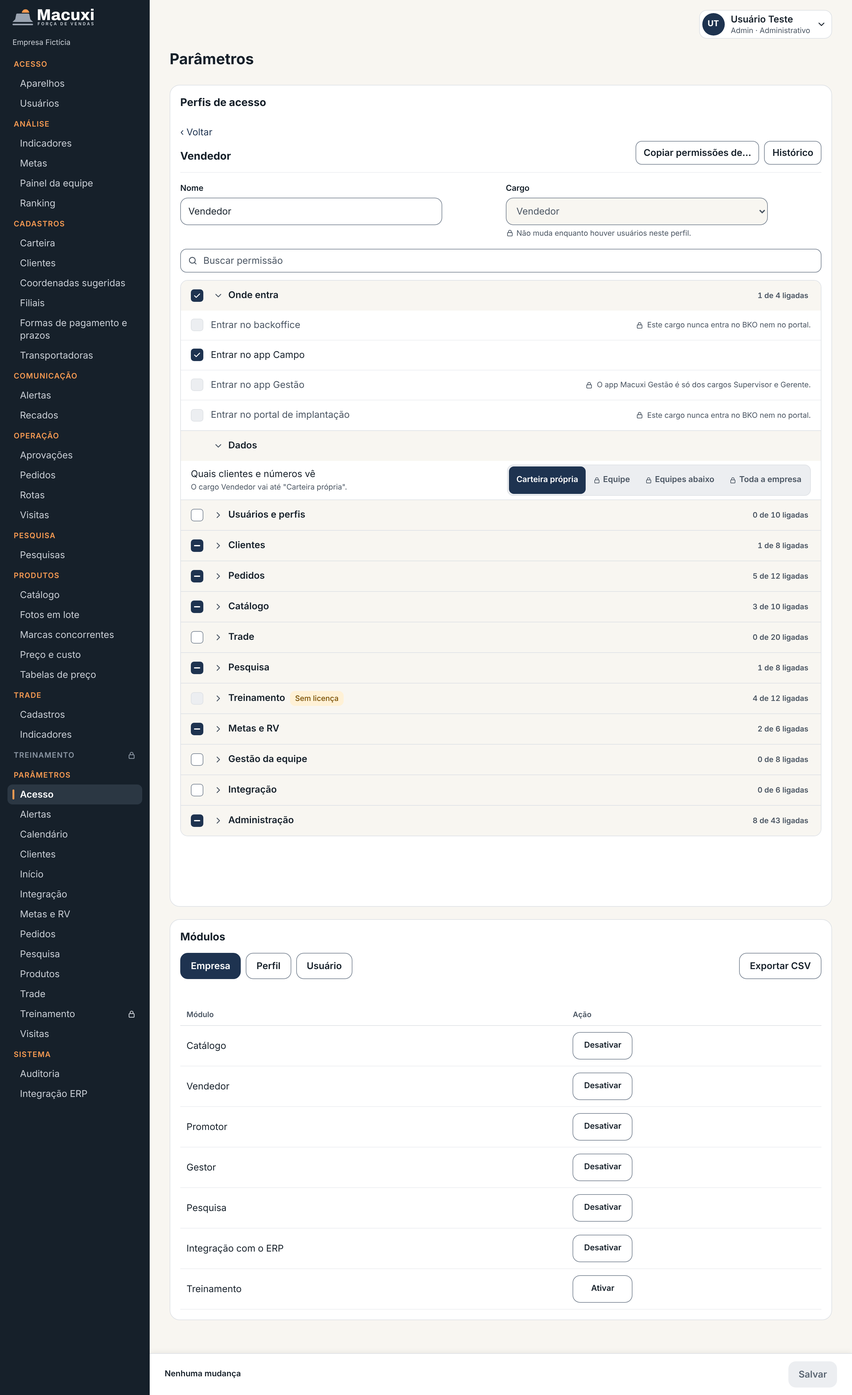
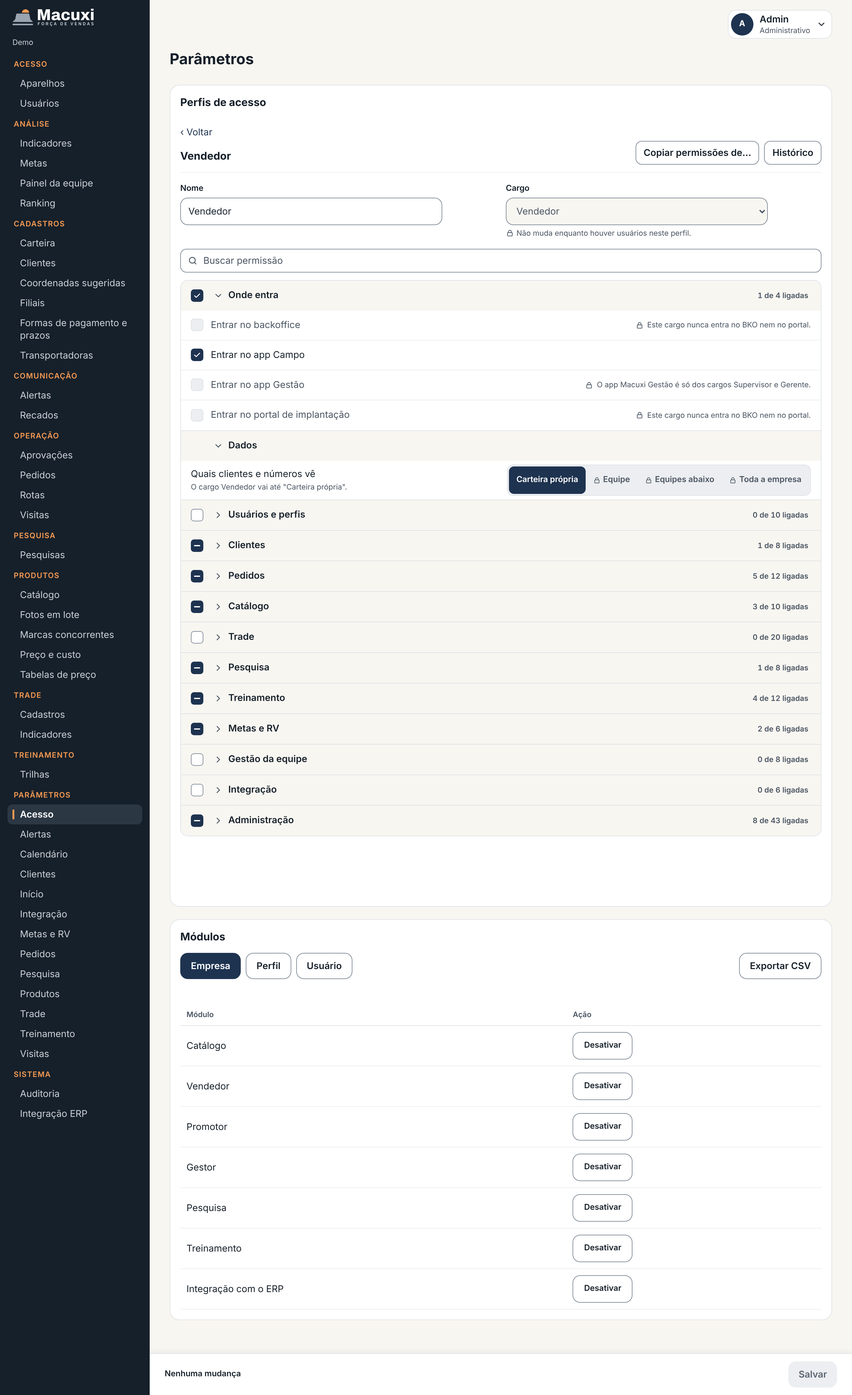
v1.0.40 · testes: parecer da E5+E6 do core (#853 75a3813b, -2 c8bf2083)
Agente: testes

Claude-Session: https://claude.ai/code/session_01QvB2SQEC54iLCaCNvzvGaW

diff --git a/tests/e2e/bko/prints-perfis-v1040-api.ts b/tests/e2e/bko/prints-perfis-v1040-api.ts
@@ -1,0 +1,112 @@
+/**
+ * v1.0.40 · ADR 0073 (E5/E6): prints da edição de perfis em tabela (Vendedor e Admin) a 1366 px, deviceScaleFactor 2, com a API
+ * REAL (apps/api sobre o Postgres local, base de demo com o tenant em `concessao`). Entra pelo login do BKO como o admin da demo,
+ * captura as respostas V2 (`/core/permissoes/catalogo` e `/core/perfis/:codigo`) e confere valor × regra do "n de m ligadas" de
+ * cada grupo contra elas (n = chaves concedidas da área, m = chaves da área no catálogo; o grupo só de escopo não tem contagem).
+ *
+ * Pré-requisitos: a API (`MACUXI_PG_BANCO=<base de demo> pnpm --filter api dev`, porta 8100) e o BKO (`pnpm --filter web dev`)
+ * no ar. `MACUXI_BKO_URL` (padrão http://localhost:3000), `MACUXI_DEMO_SENHA` (padrão a da demo, docs/banco/README.md).
+ * Rodar: `pnpm exec tsx tests/e2e/bko/prints-perfis-v1040-api.ts <pasta-de-saida>` (`MACUXI_PW_CHROMIUM` aponta o Chromium já instalado).
+ */
+import { mkdirSync } from 'node:fs';
+import { join } from 'node:path';
+import { chromium, type Page } from 'playwright';
+
+const BKO = process.env.MACUXI_BKO_URL ?? 'http://localhost:3000';
+const SAIDA = process.argv[2] ?? 'prints-perfis-v1040';
+const SENHA = process.env.MACUXI_DEMO_SENHA ?? 'demo-macuxi';
+
+interface Area { area: string; chaves: Array<{ chave: string; nivel?: string | null }> }
+interface Detalhe { permissoes: Array<{ chave: string; concedida: boolean }> }
+
+/**
+ * A base de demo tem o código de empresa "demo", que o formulário do login recusa (UF + 4 números). O login é o da API real
+ * (`POST /auth/login`, pelo proxy do BKO, com a sessão web), e a sessão entra no navegador como o shell a guarda.
+ */
+async function entrar(page: Page) {
+  const r = await page.request.post('/api-proxy/auth/login', { data: { codigo_empresa: 'demo', email: 'admin@exemplo.com.br', senha: SENHA } });
+  if (!r.ok()) throw new Error(`login da API real: HTTP ${r.status()}`);
+  const { access_token: token } = (await r.json()) as { access_token: string };
+  const me = (await (await page.request.get('/api-proxy/me', { headers: { authorization: `Bearer ${token}` } })).json().catch(() => ({}))) as Record<string, unknown>;
+  const usuario = { id: me.id ?? 'admin', name: me.nome ?? 'Admin', email: 'admin@exemplo.com.br', perfil: 'admin', empresa: me.empresa ?? 'Demo', fuso: 'America/Manaus' };
+  await page.addInitScript(
+    ([u, t]) => {
+      const j = JSON.stringify(u);
+      localStorage.setItem('macuxi.web.user', j);
+      sessionStorage.setItem('macuxi.web.token', t as string);
+      sessionStorage.setItem('macuxi.web.token.usuario', j);
+    },
+    [usuario, token] as const,
+  );
+}
+
+/** Abre o perfil e devolve o catálogo e o detalhe que a tela recebeu da API real. */
+async function abrir(page: Page, codigo: string): Promise<{ catalogo: { areas: Area[] }; detalhe: Detalhe }> {
+  let catalogo: { areas: Area[] } | null = null;
+  let detalhe: Detalhe | null = null;
+  const ouvir = async (r: import('playwright').Response) => {
+    const p = new URL(r.url()).pathname.replace(/^\/api-proxy(\/v1)?/, '');
+    if (r.status() !== 200) return;
+    if (p === '/core/permissoes/catalogo') catalogo = (await r.json()) as { areas: Area[] };
+    if (p === `/core/perfis/${codigo}`) detalhe = (await r.json()) as Detalhe;
+  };
+  page.on('response', (r) => void ouvir(r).catch(() => undefined));
+  await page.goto(`/parametros/acesso?editar_perfil=${codigo}`);
+  await page.getByTestId('tabela-permissoes').waitFor({ timeout: 120_000 });
+  await page.waitForTimeout(1000);
+  if (!catalogo || !detalhe) throw new Error(`${codigo}: a tela não recebeu catálogo e detalhe da API real`);
+  return { catalogo, detalhe };
+}
+
+async function conferirContagens(page: Page, codigo: string, catalogo: { areas: Area[] }, detalhe: Detalhe): Promise<string[]> {
+  const concedida = new Map(detalhe.permissoes.map((p) => [p.chave, p.concedida]));
+  const erros: string[] = [];
+  const vistos: string[] = [];
+  for (const a of catalogo.areas) {
+    if (a.chaves.every((c) => c.nivel === 'escopo')) continue;
+    const esperado = `${a.chaves.filter((c) => concedida.get(c.chave)).length} de ${a.chaves.length} ligadas`;
+    const visto = (await page.getByTestId(`tabela-permissoes.${a.area}.contagem`).textContent())?.trim();
+    vistos.push(`${a.area} ${visto}`);
+    if (visto !== esperado) erros.push(`${codigo}/${a.area}: tela "${visto}" × regra "${esperado}"`);
+  }
+  console.log(`${codigo}: ${vistos.join(' | ')}`);
+  return erros;
+}
+
+async function main() {
+  mkdirSync(SAIDA, { recursive: true });
+  const nav = await chromium.launch(process.env.MACUXI_PW_CHROMIUM ? { executablePath: process.env.MACUXI_PW_CHROMIUM } : {});
+  const ctx = await nav.newContext({ viewport: { width: 1366, height: 768 }, deviceScaleFactor: 2, baseURL: BKO, locale: 'pt-BR', timezoneId: 'America/Manaus' });
+  const erros: string[] = [];
+  const page = await ctx.newPage();
+  await entrar(page);
+  for (const codigo of ['vendedor', 'admin'] as const) {
+    await page.setViewportSize({ width: 1366, height: 768 });
+    const { catalogo, detalhe } = await abrir(page, codigo);
+    await page.addStyleTag({ content: 'nextjs-portal{display:none!important}' }); // o selo do modo dev do Next não é da tela
+    erros.push(...(await conferirContagens(page, codigo, catalogo, detalhe)));
+    const altura = await page.evaluate(() => document.documentElement.scrollHeight);
+    await page.setViewportSize({ width: 1366, height: altura + 80 });
+    await page.waitForTimeout(500);
+    await page.screenshot({ path: join(SAIDA, `perfis-${codigo}-1366.png`) });
+    const textos = await page.locator('body').innerText();
+    for (const proibido of ['Perfil base', 'Restaurar', 'Promotor vê pedidos', 'RN-']) if (textos.includes(proibido)) erros.push(`${codigo}: texto "${proibido}" na página`);
+    const principais = await page.locator('button').evaluateAll((bs) => bs.filter((b) => /bg-accent/.test(b.className) && !b.getAttribute('role')).map((b) => (b.textContent ?? '').trim()));
+    console.log(`${codigo}: botões principais = ${JSON.stringify(principais)}; avisos de autogestão = ${(textos.match(/Você usa este perfil/g) ?? []).length}`);
+  }
+  // RN-PRO-01 pelo cargo, com a API real: escritas de pedido travadas com o motivo; "Ver pedidos" (pedido.ver) livre
+  {
+    await page.setViewportSize({ width: 1366, height: 768 });
+    await abrir(page, 'promotor');
+    await page.getByTestId('tabela-permissoes.pedidos.seta').click();
+    const linhas = await page.locator('[data-testid^="tabela-permissoes.pedidos."][role="listitem"]').evaluateAll((ls) =>
+      ls.map((l) => `${l.getAttribute('data-testid')?.replace('tabela-permissoes.pedidos.', '')} trava=${l.getAttribute('data-travada') ?? 'nao'} motivo=${l.querySelector('[data-testid$=".motivo"]')?.textContent ?? ''}`),
+    );
+    console.log('promotor/pedidos:\n  ' + linhas.join('\n  '));
+  }
+  await nav.close();
+  console.log(erros.length ? `DIVERGÊNCIAS:\n${erros.join('\n')}` : 'Sem divergências.');
+  if (erros.length) process.exitCode = 1;
+}
+
+void main();

diff --git a/tests/integracao/demo/demo-matriz.test.ts b/tests/integracao/demo/demo-matriz.test.ts
@@ -16,7 +16,7 @@ import { readdirSync, readFileSync, statSync } from 'node:fs';
 import { join } from 'node:path';
 import { semBanco } from '@macuxi/db/teste/estado';
 import { dadosDemo } from '@macuxi/db/teste';
-import { LicencasEstadoSchema, PerfilListaRespostaSchema, UsuarioListaRespostaSchema, type CustomerSummary } from '@macuxi/core/contracts';
+import { LicencasEstadoSchema, PerfilListaRespostaV2Schema, UsuarioListaRespostaSchema, type CustomerSummary } from '@macuxi/core/contracts';
 import { mensagemPerfilForaDoApp, type ItemPush, type LinhaSync, type ResultadoItemPush } from '@macuxi/platform-sdk';
 import { afterAll, beforeAll, describe, expect, it } from 'vitest';
 import { fazerCheckin, fazerCheckout, type ContextoAcao } from '../../../modules/core/app/lib/acoes-visita';
@@ -513,7 +513,7 @@ describe.skipIf(semBanco())('T-0028 — matriz da demo (base demo × createApp r
       expect(rp.status, JSON.stringify(rp.corpo)).toBe(200);
       const ru = await api.get(token.admin, '/v1/core/usuarios');
       expect(ru.status, JSON.stringify(ru.corpo)).toBe(200);
-      const perfis = PerfilListaRespostaSchema.parse(rp.corpo).itens;
+      const perfis = PerfilListaRespostaV2Schema.parse(rp.corpo).itens; // ADR 0073 (E6): GET /v1/core/perfis responde no formato V2
       // a lista sem filtro traz ativos e inativos; a API de perfis conta por usuario_perfil, inclusive inativos
       const usuarios = UsuarioListaRespostaSchema.parse(ru.corpo).itens;
       expect(perfis.length).toBeGreaterThan(0);

diff --git a/tests/modulos/pedidos-busca-t0077.test.ts b/tests/modulos/pedidos-busca-t0077.test.ts
@@ -985,8 +985,8 @@ describe('T-0077 critério 4 — promotor lê os pedidos da carteira no Cliente 
     expect(tela).toMatch(/const cartao = ficha && ficha\.pedidos_visiveis && fin/);
     expect(tela).toMatch(/const itensComprados: ItemCompradoLinha\[\] = ficha && ficha\.pedidos_visiveis/);
     expect(tela).toContain('const itensAbas = abasDoApp(locais.perfil, locais.verPedidos);');
-    // a API revalida (P12): o Histórico online pede promotor_ve_pedidos
-    expect(ler('modules/core/api/cliente360-v2.ts')).toContain("abasDaFicha(ctx.usuario.perfil, ctx.usuario.perfil !== 'promotor' || (await lerPromotorVePedidos(db))).includes('historico')");
+    // a API revalida (P12; ADR 0073 §2.4): o Histórico online pede usuarioVePedidos (pedido.ver em concessao, promotor_ve_pedidos em legado)
+    expect(ler('modules/core/api/cliente360-v2.ts')).toContain("abasDaFicha(ctx.usuario.perfil, await usuarioVePedidos(ctx, db)).includes('historico')");
   });
 
   it('LIGADA (padrão de fábrica, sem registro): o promotor lê no Cliente 360 os pedidos/mês, os valores e a última compra — offline', async () => {

diff --git a/docs/testes/v1040-perfis-e5.md b/docs/testes/v1040-perfis-e5.md
@@ -1,69 +1,87 @@
-# v1.0.40 · Perfis em tabela (ADR 0073, E5) — parecer final do testes
+# v1.0.40 · Perfis em tabela (ADR 0073): parecer do testes da E5 e da E6 do core
 
-Data: 27/11/2026, 09h35 (Manaus). Base: simulação aprovada `docs/design/simulacoes/2026-11-24/perfis-tabela.md` e ADR 0073.
+Data: 27/11/2026, 10h15 (Manaus). Sessão S18 (R-20261127-093805-alexandre). Base: a simulação aprovada `docs/design/simulacoes/2026-11-24/perfis-tabela.md` e a ADR 0073.
 
 | PR | Dono | Branch | Head conferido |
 |---|---|---|---|
 | #853 (kit) | designer-ux | `nuvem/v1040-designer-ux-perfis` | `75a3813bc7f25ac87795ac95819140486013ab9c` |
-| #854 (tela, rotas V2 e 0109) | modulo-core | `nuvem/v1040-modulo-core-perfis` | `183638eb8990351d6795a44291002402b7147b77` |
+| PR novo (tela e rotas V2) | modulo-core | `nuvem/v1040-modulo-core-perfis-2` | `c8bf20834a25ccd6548662a964192a34cd6272e5` |
 
-O 183638eb contém o 75a3813b, e o #854 não muda `packages/` além do que o #853 traz.
+O c8bf2083 contém o 75a3813b e o `main` (cc78a5fd). Em `modules/`, ele é igual ao 183638eb (liberado no parecer anterior) mais 2 commits:
+- 46053bb1 (RD-3734, RD-3741): `usuarioDaRequisicaoVePedidos` passa a usar `podePeloCargo` do SDK, e o Cliente 360 (`api/clientes.ts`) e o pull do histórico (`api/sync.ts`) chamam `usuarioVePedidos` direto. Um TODO aponta a troca por `promotorNaRequisicao`.
+- c8bf2083: tira o symlink `modules/core/node_modules`.
+
+`web/` não mudou desde o 183638eb.
+
+Banco: as migrações do `main` (até a 0108) mais a 0109 corrigida da S19 (`nuvem/v1040-banco-dados-perfis-correcao` @ 833d47af), aplicada só na sessão, sem commit.
 
 ## Parecer
 - **#853 @ 75a3813b: LIBERADO.** Nenhum achado.
-- **#854 @ 183638eb: LIBERADO.** Os achados A1 a A5 do parecer anterior (908fc0c1) estão resolvidos. Não há achado novo.
+- **modulo-core-perfis-2 @ c8bf2083: LIBERADO.** Não há achado no código de produção.
 
-## O que rodou (no head 183638eb)
+Dois testes de `tests/` acompanhavam a forma antiga e foram corrigidos neste lote, no caminho do testes:
+- `tests/modulos/pedidos-busca-t0077.test.ts:989`: a asserção de fonte esperava `ctx.usuario.perfil !== 'promotor' || (await lerPromotorVePedidos(db))` no `cliente360-v2.ts`. Agora ela espera `abasDaFicha(ctx.usuario.perfil, await usuarioVePedidos(ctx, db)).includes('historico')`, que é a regra da ADR 0073 §2.4: `pedido.ver` em `concessao` e `promotor_ve_pedidos` em `legado`. Só a asserção mudou.
+- `tests/integracao/demo/demo-matriz.test.ts:516`: a contagem de usuários por perfil lia `GET /v1/core/perfis` com o `PerfilListaRespostaSchema` antigo, que tem `base` e `fabrica`. Agora a rota responde V2, então o teste lê com o `PerfilListaRespostaV2Schema`. A conferência da contagem não mudou.
+
+## O que rodou (no head c8bf2083, Node 24.22 de `/opt/node24`, Postgres 16 local de `db/scripts/pg-local.sh`)
 | Pacote | Comando | Resultado |
 |---|---|---|
-| @macuxi/ui | `vitest run` | 59 arquivos, 661 testes, verdes |
-| @macuxi/ui | `pnpm typecheck` (web e mobile) | limpo |
 | @macuxi/core | `pnpm typecheck` (api, web e mobile) | limpo |
-| @macuxi/core web e domain | `vitest run web domain` (Node 22) | verdes |
-| @macuxi/core api, com Postgres local (`db/scripts/pg-local.sh --env`, Node 24.22 de `/opt/node24`) | `vitest run api` | 105 arquivos, 1123 testes: 1122 verdes. `perfis-v2.db.test.ts` com 36 testes verdes, `perfis-v2.test.ts`, `promotor-pedidos.db.test.ts` e `promotor-historico.db.test.ts` verdes |
-| BKO no navegador | `tests/e2e/bko/prints-perfis-v1040.ts` (Chromium de `/opt/pw-browsers`, Next em dev) | sem divergências |
+| @macuxi/core | `pnpm lint` | 0 erros (50 avisos `perfil-fixo` já conhecidos) |
+| @macuxi/core | `vitest run` (a suíte inteira, com o banco) | 318 arquivos, 3554 testes: 3553 verdes. `perfis-v2.db.test.ts` (36), `perfis-v2.test.ts`, `promotor-pedidos.db.test.ts`, `promotor-historico.db.test.ts`, `domain/promotor-pedidos.test.ts` e `web/lib/perfis-tabela.test.ts` estão verdes |
+| tests/ | `vitest run --config tests/vitest.config.ts` (com o banco) | 187 arquivos, 2860 testes: 2828 verdes, 22 pulados e 8 todo. Caíram 2, os dois corrigidos acima. Com a correção, os 2 arquivos têm 106 de 106 verdes |
+| tests/ | `tsc -p tests/tsconfig.json` e `eslint` nos arquivos tocados | limpos |
+| BKO no navegador, com a **API real** | `tests/e2e/bko/prints-perfis-v1040-api.ts` | sem divergências |
 
-- Com o Node 22 da sessão, 97 testes da API caem só por falta de `crypto.argon2` (autenticação, credencial, senha e usuários). Isso não é achado. Com o Node 24 eles passam.
-- Um teste caiu na suíte completa: `api/vinculo-erp.db.test.ts` (RN-CORE-58, linha 197). Rodando só esse arquivo, os 9 testes passam. O #854 não toca o vínculo com o ERP, então isso não é achado deste lote. Fica registrado como teste instável na suíte paralela.
+- Um teste caiu na suíte do core: `api/vinculo-erp.db.test.ts` (RN-CORE-58). Sozinho, o arquivo passa com 9 de 9. É o mesmo teste instável da suíte paralela já registrado no 183638eb, e o lote não toca o vínculo com o ERP. Não é achado.
 
-## Critério → teste → resultado
+## E5: os 11 critérios → teste → resultado
 | Critério | Teste | Resultado |
 |---|---|---|
-| Trava pelo cargo com o motivo, sem código de RN | `perfis-tabela.test.ts` (RN-CORE-33). No navegador aparecem os motivos e não há "RN-" na página | ✅ |
-| Cargo travado quando o perfil tem usuários | `perfis-tabela.test.ts`. Nos prints, o cadeado aparece com "Não muda enquanto houver usuários neste perfil.". Na API, o db.test cobre o 422 `CARGO_EM_USO` | ✅ |
-| Módulo sem licença desabilitado, guardando o valor | navegador: Treinamento com "Sem licença", a caixa sem efeito e "4 de 12 ligadas". db.test: 422 `PERMISSAO_SEM_LICENCA` e o valor guardado continua guardado (RN-CORE-02) | ✅ |
-| Aviso de autogestão uma vez só, no topo | print Admin: um aviso só, e as linhas travadas sem texto repetido. A API marca `autogestao` só no perfil de quem está logado (db.test) | ✅ |
-| Caixa do grupo com 3 estados, só nas linhas livres | navegador: Clientes vai de `mixed` 1 de 8 para `true` 8 de 8, com "7 mudanças não salvas". Em Onde entra, só a linha livre muda | ✅ |
-| Escopo acima do teto do cargo com cadeado e motivo | print Vendedor: cadeado em Equipe, Equipes abaixo e Toda a empresa, e o motivo escrito "O cargo Vendedor vai até "Carteira própria"." (A3 resolvido). API: 422 `ESCOPO_ACIMA_DO_CARGO` | ✅ |
-| RN-PRO-01: o promotor nunca cria nem altera pedido | navegador, perfil Promotor: `pedido.criar`, `editar`, `cancelar`, `excluir`, `aprovar` e `criar_em_nome` travados com "Perfil de promotor nunca cria, edita, cancela, exclui ou aprova pedido.", e `pedido.ver` livre. db.test: a API recusa com 422 `TRAVA_DO_PERFIL` (pelo corpo e pela cópia de outro cargo), e o banco recusa o insert direto (23514). Domain: `usuarioDaRequisicaoVePedidos` muda só a leitura | ✅ |
-| Só quem tem `perfil.gerir` edita | db.test: todas as rotas de gestão exigem `perfil.gerir`, e o vendedor não tem essa permissão. `perfis-tabela.test.ts`. A página mostra o aviso quando `usePode('perfil.gerir')` falha e no 403 | ✅ |
-| 422 com texto único | `MENSAGEM_PERFIS_NAO_MIGRADOS` existe só em `contracts/perfis.ts`. A API lança esse texto, e a tela o mostra pelo `frasesDaRecusa(details, message)`, sem texto próprio. db.test: POST, PUT e DELETE com o tenant em `legado` dão 422 `PERFIS_NAO_MIGRADOS` | ✅ |
-| Busca | navegador: "transportadora" mostra só as 2 linhas de Pedidos, e "zzz" mostra "Nenhuma permissão com esse nome." | ✅ |
-| Salvar como único botão principal | navegador: os botões principais são só ["Salvar"], no Vendedor e no Admin | ✅ |
-| Sem "Perfil base", "Restaurar padrão" e "Promotor vê pedidos" | busca de texto na página. O cartão saiu (A1 resolvido) | ✅ |
+| 1. Trava pelo cargo com o motivo, sem código de RN | `perfis-tabela.test.ts` (RN-CORE-33). No navegador com a API real, as travas mostram o motivo (por exemplo "Este cargo nunca entra no BKO nem no portal.") e não há "RN-" na página | ✅ |
+| 2. Cargo travado quando o perfil tem usuários | prints: o cadeado aparece com "Não muda enquanto houver usuários neste perfil.". db.test: 422 `CARGO_EM_USO` | ✅ |
+| 3. Módulo sem licença desabilitado, guardando o valor | db.test: 422 `PERMISSAO_SEM_LICENCA` em `legado` e em `concessao`, e o valor guardado continua guardado (RN-CORE-02). A base de demo tem tudo contratado, por isso o grupo sem licença ficou no print simulado do parecer anterior. A tela não mudou desde então | ✅ |
+| 4. Aviso de autogestão uma vez só, no topo | print Admin (API real): um aviso só, "Você usa este perfil…". O script conta 1 no Admin e 0 no Vendedor. db.test: `autogestao` só no perfil de quem está logado | ✅ |
+| 5. Caixa do grupo com 3 estados, só nas linhas livres | prints: grupos em `mixed`, `true` e vazio. `perfis-tabela.test.ts`. A tela não mudou desde o 183638eb, conferido no navegador | ✅ |
+| 6. Escopo acima do teto do cargo com cadeado e motivo | print Vendedor: cadeado em Equipe, Equipes abaixo e Toda a empresa, com "O cargo Vendedor vai até "Carteira própria".". db.test: 422 `ESCOPO_ACIMA_DO_CARGO` | ✅ |
+| 7. RN-PRO-01: o promotor nunca cria nem altera pedido | navegador com a API real, perfil Promotor: `pedido.criar`, `editar`, `cancelar`, `excluir`, `aprovar` e `criar_em_nome` travados com "Perfil de promotor nunca cria, edita, cancela, exclui ou aprova pedido.", e `pedido.ver` livre. db.test: 422 `TRAVA_DO_PERFIL` (pelo corpo e pela cópia) e 23514 no insert direto | ✅ |
+| 8. Só quem tem `perfil.gerir` edita | db.test: toda rota de gestão exige `perfil.gerir`, e o vendedor não tem essa permissão | ✅ |
+| 9. 422 com texto único | `MENSAGEM_PERFIS_NAO_MIGRADOS` existe só em `contracts/perfis.ts`, e a tela usa `frasesDaRecusa`. db.test: POST, PUT e DELETE em `legado` dão 422 `PERFIS_NAO_MIGRADOS` | ✅ |
+| 10. Busca | `perfis-tabela.test.ts`. No navegador (183638eb, com `web/` igual): "transportadora" mostra 2 linhas e "zzz" mostra "Nenhuma permissão com esse nome." | ✅ |
+| 11. Salvar como único botão principal, sem "Perfil base", "Restaurar padrão" e "Promotor vê pedidos" | API real: os botões principais são só ["Salvar"] no Vendedor e no Admin. Os textos proibidos não aparecem na página | ✅ |
 
-### Valor × regra: "n de m ligadas"
-Pela regra, n é o número de chaves concedidas da área (livres, travadas e sem licença) e m é o número de chaves da área no catálogo. O grupo Dados não tem contagem. O script calcula o esperado a partir da resposta e compara com a tela em todos os grupos do Vendedor e do Admin, e **não há divergência**. Exemplos: no Vendedor, Onde entra 1 de 4, Pedidos 5 de 12 e Treinamento 4 de 12; no Admin, Onde entra 2 de 4 e Administração 39 de 43. Rótulo × valor: "ligadas" conta as concessões gravadas. A tela não tem data, fuso nem dinheiro, então dia útil, virada de mês e fuso não se aplicam.
+## E6 do lado do core
+| Item | Teste | Resultado |
+|---|---|---|
+| Um tenant em `concessao` e um em `legado` | `perfis-v2.db.test.ts` 344 a 385: a fixture grava `legado`, liga e desliga por tenant, e o detalhe é igual nos dois. Base de demo com a 0109: o tenant `demo` ficou em `concessao` (`ligar_leitura_por_concessao`), e a tela leu dele | ✅ |
+| 422 `PERFIS_NAO_MIGRADOS` | db.test 375: em `legado`, a leitura funciona e a escrita é recusada | ✅ |
+| RN-PRO-01 pelo cargo | db.test 115 e 467: a API e o banco (23514), em `concessao` | ✅ |
+| O promotor vê pedidos com `pedido.ver` e a trava do cargo (RD-3741) | domain: `usuarioDaRequisicaoVePedidos` com `podePeloCargo`. `vetadaPeloCargo` barra só a escrita de pedido (`ehAcaoDeEscritaDePedido`), então `pedido.ver` passa. db.test 479: em `legado`, vale o parâmetro. Em `concessao`, tirar `pedido.ver` do perfil esconde o histórico, e devolver a chave mostra de novo. `promotor-historico.db.test.ts` (6) cobre o Cliente 360 e o pull. O t0077 corrigido confere o `cliente360-v2.ts` | ✅ |
+| Licença | db.test 66, 125 e 406 | ✅ |
+| Isolamento entre tenants | db.test 212, 263 e 501 (RN-CORE-05) | ✅ |
+| Último admin pela gestão | db.test 189 e 450: 422 `ULTIMO_ADMIN` com `AUTOGESTAO`, e em `concessao` o banco recusa a escrita direta no COMMIT | ✅ |
 
-## Achados anteriores
-| Id | Situação no 183638eb |
-|---|---|
-| A1 (alta) cartão "Promotor vê pedidos" | resolvido: o painel saiu de `web/index.ts`, e a leitura passou para a chave `pedido.ver` |
-| A2 (média) rótulo de `dados.escopo` | resolvido: agora é "Quais clientes e números vê" |
-| A3 (média) motivo do teto escondido | resolvido: o motivo aparece escrito sob o nome da linha (print Vendedor) |
-| A4 (baixa) títulos dos grupos | resolvido: os títulos estão iguais aos da simulação |
-| A5 (baixa) barra sobre o menu | resolvido: `md:left-[240px]` |
+Observação, que não é achado: o `sync.ts` deixou de conferir `ctx.usuario.cargo !== 'promotor'` antes de `usuarioVePedidos`. Agora quem decide é o `requisicaoDePromotor`, pelo cargo de `perfil_acesso` ou, em `legado`, pelo perfil do token. Em `legado`, cargo promotor implica perfil promotor, então o resultado é o mesmo. O `promotor-historico.db.test.ts` passa.
 
-Nenhum achado novo.
+## Valor × regra: "n de m ligadas" (API real)
+A regra: n é o número de chaves concedidas da área (livres, travadas e sem licença), e m é o número de chaves da área no catálogo. O grupo só de escopo (Dados) não tem contagem. O script calcula o esperado a partir das respostas reais de `/core/permissoes/catalogo` e `/core/perfis/:codigo`, compara com a tela em todos os grupos e **não acha divergência**.
+- Vendedor: Onde entra 1 de 4, Usuários 0 de 10, Clientes 1 de 8, Pedidos 5 de 12, Catálogo 3 de 10, Trade 0 de 20, Pesquisa 1 de 8, Treinamento 4 de 12, Metas 2 de 6, Gestão 0 de 8, Integração 0 de 6 e Administração 8 de 43.
+- Admin: Onde entra 2 de 4, Usuários 9 de 10, Clientes 8 de 8, Pedidos 6 de 12, Catálogo 10 de 10, Trade 10 de 20, Pesquisa 7 de 8, Treinamento 9 de 12, Metas 6 de 6, Gestão 2 de 8, Integração 6 de 6 e Administração 39 de 43.
 
-## Prints (1366 px, deviceScaleFactor 2, head 183638eb)
+Rótulo × valor: "ligadas" conta as concessões gravadas. A tela não tem data, fuso nem dinheiro, então dia útil, virada de mês e fuso não se aplicam.
+
+## Prints (1366 px, deviceScaleFactor 2, head c8bf2083, **API real**)
 - `docs/testes/prints/v1040-perfis/perfis-vendedor-1366.png`
 - `docs/testes/prints/v1040-perfis/perfis-admin-1366.png`
 
-**A API foi simulada** com `page.route`, porque o prazo não deu para subir a API com a demo. As respostas seguem o formato V2 real e saem das funções do domain no head 183638eb (`montarCatalogoPorArea` com `so_bko`, `montarDetalheV2` com `perfilDoLogado`, e `ehAutogestao` na lista), com o catálogo dos 8 manifestos e os 7 modelos do SDK. O Treinamento fica sem licença, e o usuário logado usa o perfil `admin`. As rotas V2 reais foram conferidas pelos 36 testes de `perfis-v2.db.test.ts`, com Postgres.
+Como foram feitos: a API (`apps/api`, porta 8100) rodou sobre a base `macuxi_prints_v1040`, com as migrações do `main`, a 0109 da S19 e `seed demo`, e o tenant `demo` em `concessao`. O BKO rodou em `next dev`, pelo `/api-proxy`. O formulário de login recusa o código "demo" da base, que não tem UF nem 4 números. Por isso o script entra pelo `POST /auth/login` real e passa o token à sessão do navegador. Todas as leituras da tela vieram da API real.
+
+## Achados anteriores (A1 a A5)
+Continuam resolvidos no c8bf2083. Não há achado novo.
 
 ## Roteiro manual (API real)
 1. Entrar como Admin, abrir o Vendedor, ligar uma caixa livre e salvar. Conferir o toast e o "Nenhuma mudança".
 2. Abrir o mesmo perfil em duas abas e salvar nas duas. Deve aparecer "Outra pessoa alterou este perfil…".
 3. Entrar com um perfil sem `perfil.gerir` e conferir o aviso no lugar da tela.
 4. Com o tenant em `legado`, salvar e conferir que a tela mostra o texto único do 422.
+5. No app Campo, como promotor de um tenant em `concessao`: tirar `pedido.ver` do perfil Promotor no BKO, sincronizar e conferir que o histórico some do Cliente 360. Depois, devolver a chave e conferir que o histórico volta.
